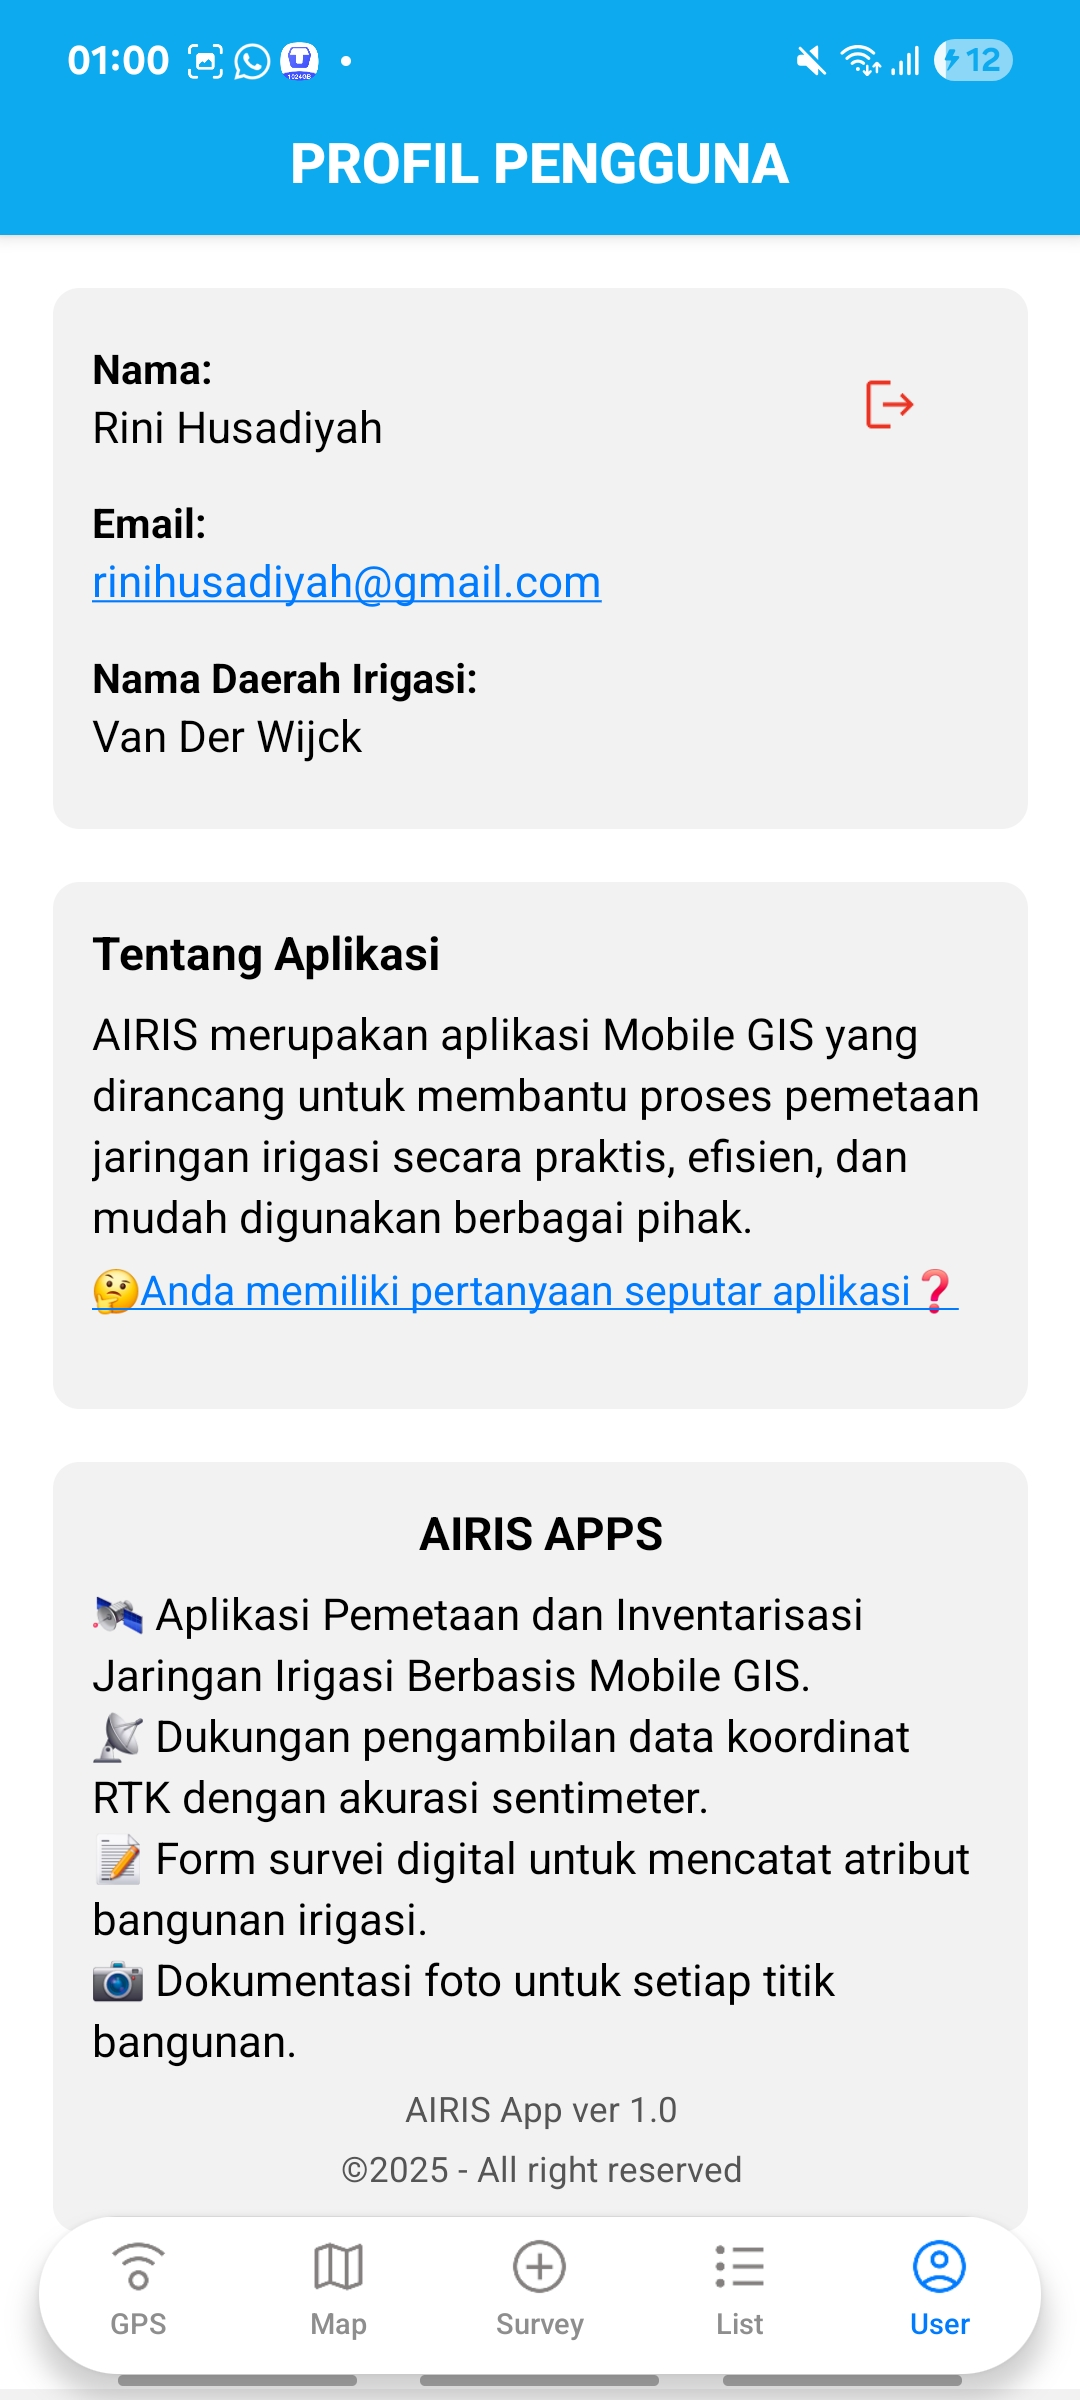
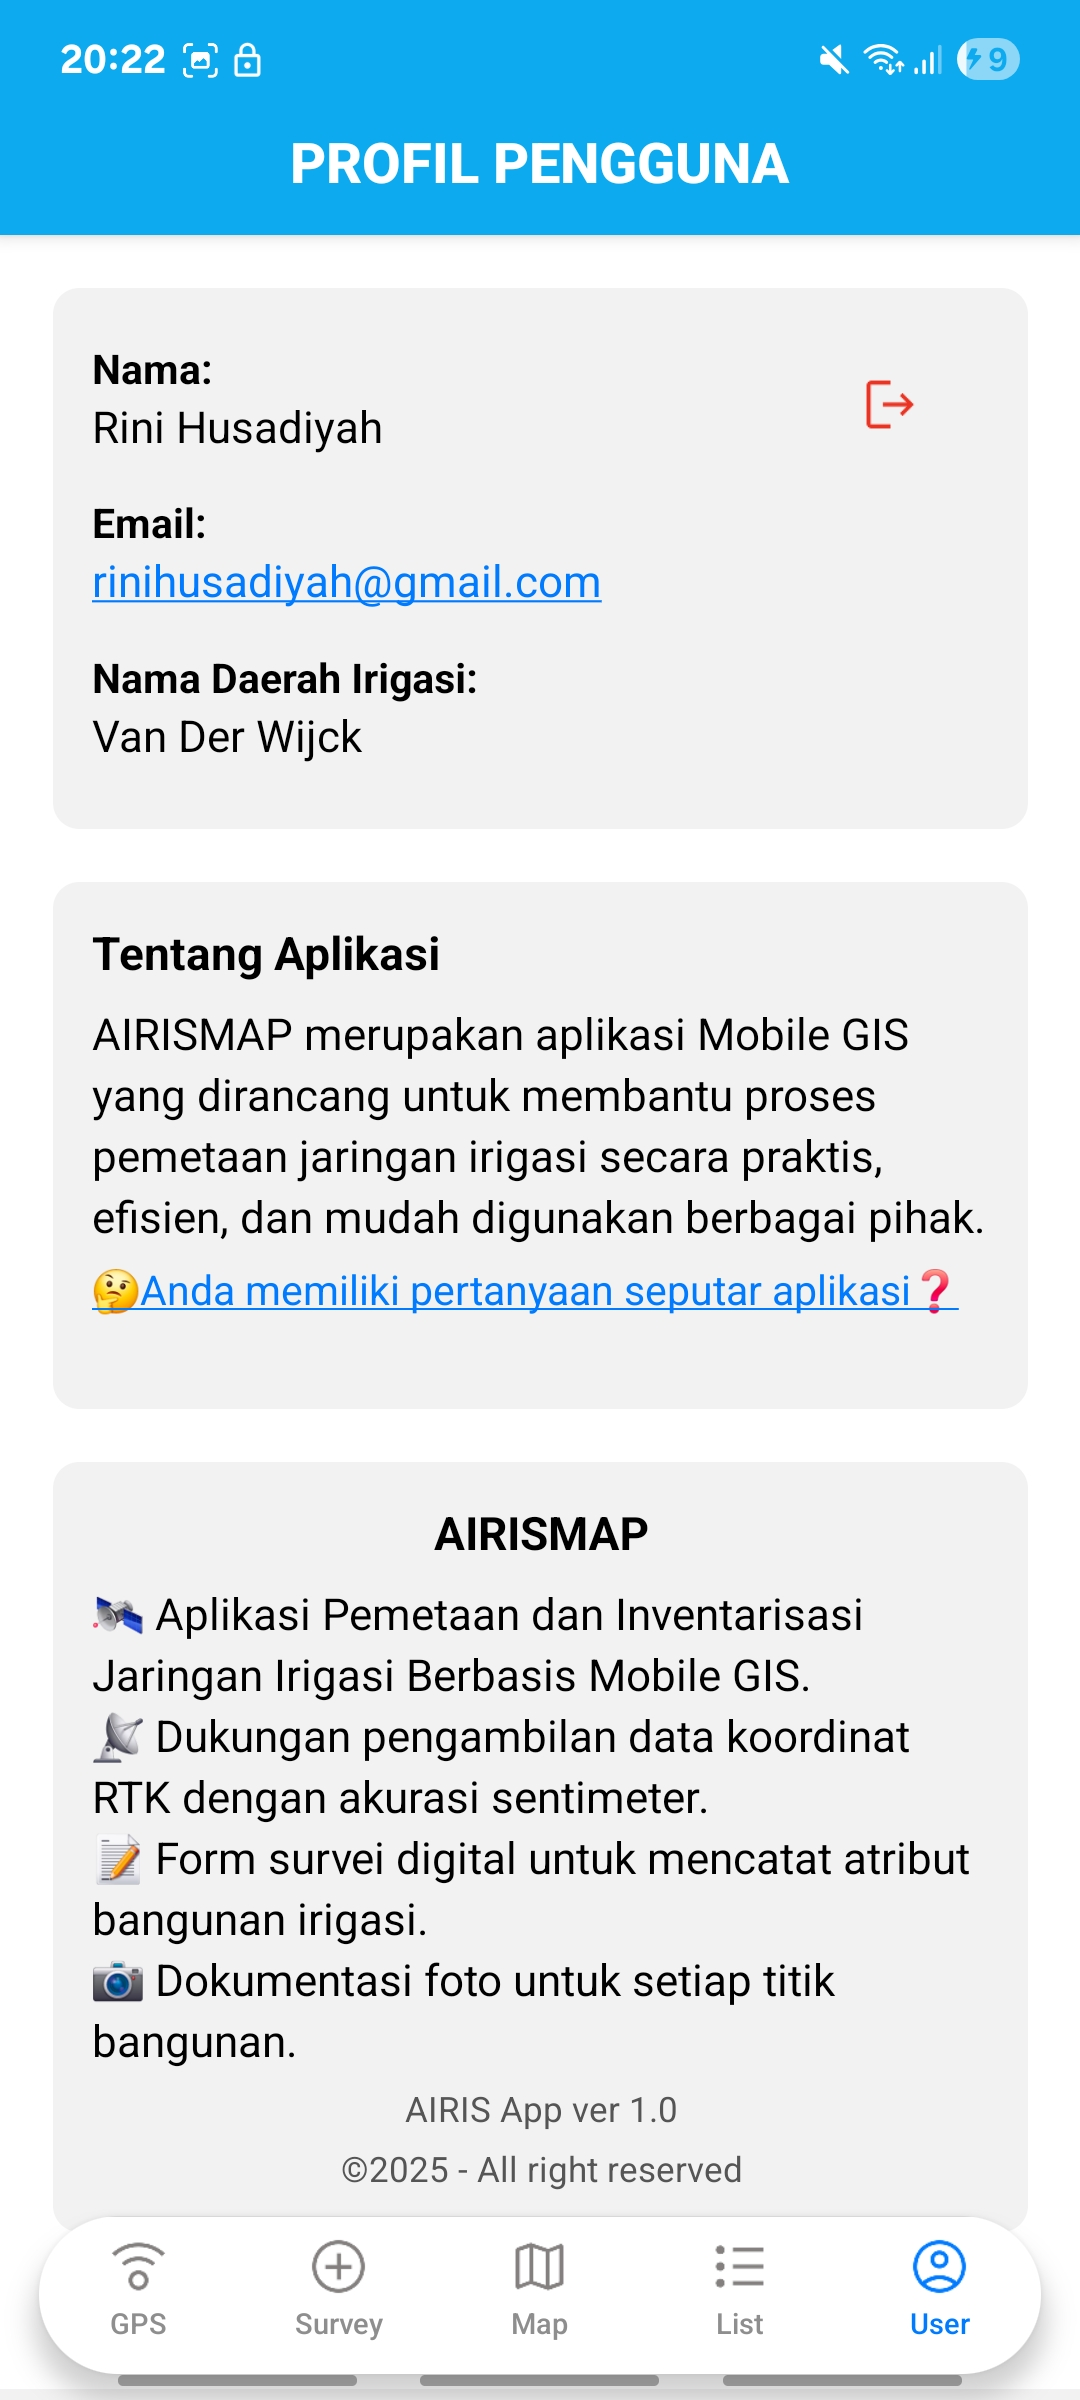
penambahan link panduan lengkap aplikasi

diff --git a/frontend/Navigation/screens/FaQ.js b/frontend/Navigation/screens/FaQ.js
@@ -1,6 +1,5 @@
 import React, { useState } from 'react';
-import { View, Text, StyleSheet, TouchableOpacity, ScrollView, Image } from 'react-native';
-import Ionicons from 'react-native-vector-icons/Ionicons';
+import { View, Text, StyleSheet, TouchableOpacity, ScrollView, Image, Linking  } from 'react-native';
 
 export default function FaQ() {
   const [activeIndex, setActiveIndex] = useState(null);
@@ -32,35 +31,50 @@ export default function FaQ() {
     setActiveIndex(activeIndex === index ? null : index);
   };
 
+  const openGuide = () => {
+    Linking.openURL('https://panduan-airismap.vercel.app/');
+  };
+
   return (
     <ScrollView style={styles.container}>
-        <View style={styles.isi}>
-            <Text style={styles.header}>Pertanyaan yang Sering Diajukan</Text> 
-                {faqData.map((item, index) => (
-                    <View key={index} style={styles.accordionItem}>
-                    <TouchableOpacity 
-                        style={styles.questionContainer}
-                        onPress={() => toggleAccordion(index)}
-                    >
-                        <Text style={styles.questionText}>{item.question}</Text>
-                        <Image 
-                        source={
-                            activeIndex === index 
-                            ? require('../assets/icons/up.png') 
-                            : require('../assets/icons/down.png')
-                        }
-                        style={styles.arrowIcon}
-                        />
-                    </TouchableOpacity>
-                    
-                    {activeIndex === index && (
-                        <View style={styles.answerContainer}>
-                        <Text style={styles.answerText}>{item.answer}</Text>
-                        </View>
-                    )}
-                    </View>
-                ))}
-        </View>
+      <View style={styles.isi}>
+        <Text style={styles.header}>Pertanyaan yang Sering Diajukan</Text> 
+          {faqData.map((item, index) => (
+            <View key={index} style={styles.accordionItem}>
+              <TouchableOpacity 
+                style={styles.questionContainer}
+                onPress={() => toggleAccordion(index)}
+              >
+              <Text style={styles.questionText}>{item.question}</Text>
+                <Image 
+                source={
+                    activeIndex === index 
+                    ? require('../assets/icons/up.png') 
+                    : require('../assets/icons/down.png')
+                }
+                style={styles.arrowIcon}
+                />
+              </TouchableOpacity>
+                      
+              {activeIndex === index && (
+                <View style={styles.answerContainer}>
+                <Text style={styles.answerText}>{item.answer}</Text>
+                </View>
+              )}
+            </View>
+          ))}
+
+          <TouchableOpacity 
+            style={styles.guideButton}
+            onPress={openGuide}
+          >
+            <Image 
+              source={require('../assets/icons/guide.png')} 
+              style={styles.guideIcon}
+            />
+            <Text style={styles.guideText}>Panduan Lengkap Aplikasi</Text>
+          </TouchableOpacity>
+      </View>
     </ScrollView>
   );
 }
@@ -125,5 +139,31 @@ const styles = StyleSheet.create({
     width: 30,
     height: 30,
     marginLeft: 10,
+  },
+  guideButton: {
+    flexDirection: 'row',
+    alignItems: 'center',
+    justifyContent: 'center',
+    backgroundColor: '#0daaf0',
+    paddingVertical: 15,
+    paddingHorizontal: 20,
+    borderRadius: 10,
+    marginTop: 20,
+    elevation: 3,
+    shadowColor: '#000',
+    shadowOffset: { width: 0, height: 2 },
+    shadowOpacity: 0.2,
+    shadowRadius: 4,
+  },
+  guideIcon: {
+    width: 30,
+    height: 30,
+    marginRight: 10,
+    tintColor: '#fff',
+  },
+  guideText: {
+    color: '#fff',
+    fontSize: 16,
+    fontWeight: 'bold',
   },
 });

diff --git a/frontend/Navigation/screens/UserStack.js b/frontend/Navigation/screens/UserStack.js
@@ -5,7 +5,7 @@ import FaQ from './FaQ';
 
 const Stack = createNativeStackNavigator();
 
-export default function UserStack() {
+export default function UserStack({ onLogout }) {
   return (
     <Stack.Navigator screenOptions={{ headerShown: true,headerStyle: {
         backgroundColor: '#0daaf0'
@@ -16,7 +16,9 @@ export default function UserStack() {
       },
       headerTitleAlign: 'center',
       }}>
-      <Stack.Screen name="AccountPage" component={AccountPage} options={{ title: 'PROFIL PENGGUNA' }} />
+      <Stack.Screen name="PROFIL PENGGUNA">
+        {(props) => <AccountPage {...props} onLogout={onLogout} />}
+      </Stack.Screen>
       <Stack.Screen name="FaQ" component={FaQ} options={{ title: 'PETUNJUK APLIKASI' }} />
     </Stack.Navigator>
   );

diff --git a/frontend/Navigation/screens/login.js b/frontend/Navigation/screens/login.js
@@ -40,7 +40,7 @@ export default function Login({ navigation, onLogin }) {
     return (
     <View style={styles.container}>
         <Image source={require('../assets/icons/Icon.png')} style={styles.logo} />
-        <Text style={styles.title}>AIRIS APP</Text>
+        <Text style={styles.title}>AIRISMAP</Text>
 
     <View style={styles.formContainer}>
         <Text>Email</Text>

diff --git a/frontend/Navigation/screens/register.js b/frontend/Navigation/screens/register.js
@@ -49,7 +49,7 @@ export default function Register({ navigation }) {
   return (
     <View style={styles.container}>
       <Image source={require('../assets/icons/Icon.png')} style={styles.logo} />
-      <Text style={styles.title}>AIRIS APP</Text>
+      <Text style={styles.title}>AIRISMAP</Text>
 
       <View style={styles.formContainer}>
         <Text>Nama Lengkap</Text>

diff --git a/frontend/Navigation/screens/map.js b/frontend/Navigation/screens/map.js
@@ -80,7 +80,7 @@ const styles = StyleSheet.create({
     flex: 1,
   },
   containerMap: {
-    height: 680,
+    height: 650,
     width: '95%',
     borderWidth: 1,
     borderColor: '#ddd',
